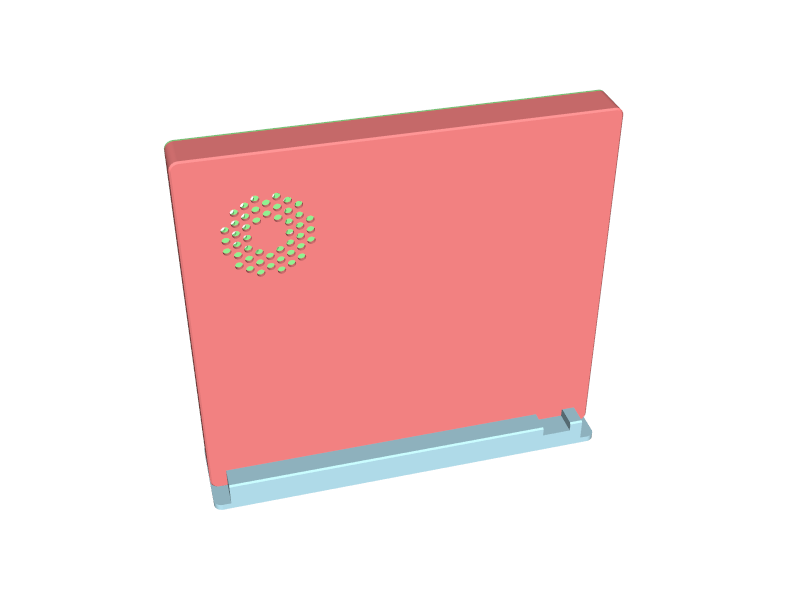
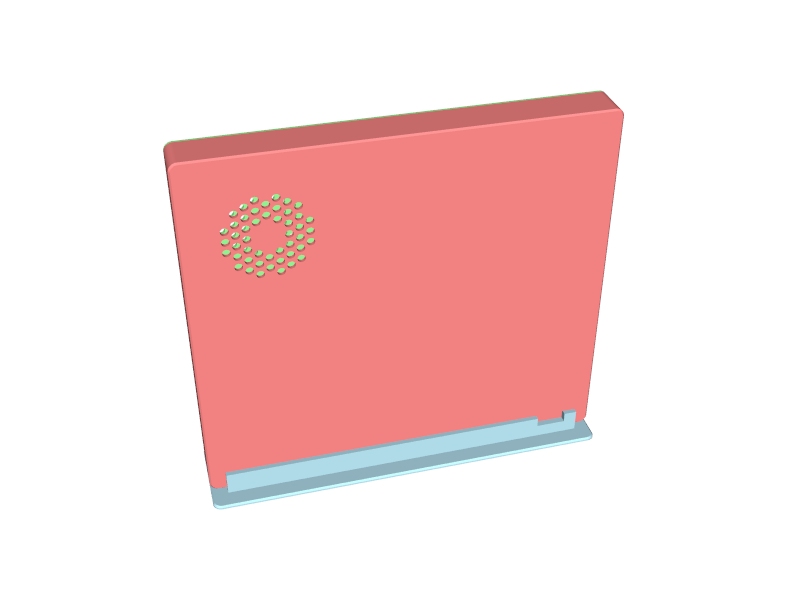
Slim the stand to a flat plate with rails
The solid 18 mm bar used three times the filament it needed and its
wings were too tall to put anything on. The stand is now a 2 mm plate
with two 4 mm rails round the slot, so books can lie on the plate
beside the case. Rail height and notches are unchanged.

diff --git a/cad/base.py b/cad/base.py
@@ -97,9 +97,10 @@ clip_wall = 2.0          # beside the slot
 clip_bar_t = 1.5         # the rectangular bar on the other side of the slot
 clip_ext = (2.0, 1.5)    # two versions: straight depth along the board before the half round (total depth clip_ext + clip_bend_r)
 stand_clear = 0.3        # stand: slot to the case thickness, per side
-stand_floor_t = 4.0
-stand_wall_h = 14.0      # slot depth: under the SSD screw heads, which start 15.8 above the audio-end face when the case stands on that end
-stand_w = 56.0           # footprint across the case: tips at about 12 degrees with the centre of mass 115 mm up
+stand_floor_t = 2.0      # a flat plate, so books and the like can lie on it beside the case
+stand_rail_w = 4.0       # the slot walls are two rails on the plate, this thick
+stand_wall_h = 14.0      # rail height: under the SSD screw heads, which start 15.8 above the audio-end face when the case stands on that end
+stand_w = 56.0           # plate width across the case: tips at about 12 degrees with the centre of mass 115 mm up
 stand_end_notch = 10.0   # the walls stop this short of both ends: the lid's corner screw heads (5.1 from the end faces, 6.2 recess) stick out
 stand_led_h = 8.0        # wall height over the LED slit (10.4 from the audio-end face) so the LEDs show when the case stands on that end
 led_y = (19.0, 29.0)     # POWER and CHARGER LEDs, side-firing on the audio-end board edge beside H5 (board-in-chassis photo, about 1 mm)
@@ -387,17 +388,20 @@ for ext in clip_ext:
 # turns the lid to the other side of the slot, so both walls get the same notches. Stand frame: X along the case from the port-edge
 # face, Y across the slot, Z up. Prints as is. ---
 def build_stand():
-    ln, th, h = y1 - y0 + 2 * wall_t, case_h + lid_t + 2 * stand_clear, stand_floor_t + stand_wall_h
-    body = rect(0, ln, -stand_w / 2, stand_w / 2, 0, h)
-    body = body.fillet(corner_r, body.edges().filter_by(Axis.Z))
-    body = body.chamfer(edge_chamfer, None, body.edges().group_by(Axis.Z)[-1])
-    body = body - rect(-1, ln + 1, -th / 2, th / 2, stand_floor_t, h + 1)
-    body = body.chamfer(edge_chamfer, None, [e for e in body.edges().filter_by(Axis.X)                 # lead-in on the slot
-                                             if abs(e.center().Z - h) < 1e-3 and abs(abs(e.center().Y) - th / 2) < 1e-3])
+    ln, th, zt = y1 - y0 + 2 * wall_t, case_h + lid_t + 2 * stand_clear, stand_floor_t + stand_wall_h
+    plate = rect(0, ln, -stand_w / 2, stand_w / 2, 0, stand_floor_t)
+    plate = plate.fillet(corner_r, plate.edges().filter_by(Axis.Z))
+    plate = plate.chamfer(edge_chamfer, None, plate.edges().group_by(Axis.Z)[-1])
     xl = (led_y[0] - led_slit_margin - (y0 - wall_t) - 2, led_y[1] + led_slit_margin - (y0 - wall_t) + 2)   # LED slit, 2 mm past its ends
-    for xa, xb, za in [(-1, stand_end_notch, stand_floor_t), (ln - stand_end_notch, ln + 1, stand_floor_t), (xl[0], xl[1], stand_floor_t + stand_led_h)]:
-        body = body - rect(xa, xb, -stand_w, stand_w, za, h + 1)
-    return body
+    notches = [rect(xa, xb, -stand_w, stand_w, za, zt + 1) for xa, xb, za in
+               [(-1, stand_end_notch, stand_floor_t - 1), (ln - stand_end_notch, ln + 1, stand_floor_t - 1), (xl[0], xl[1], stand_floor_t + stand_led_h)]]
+    rails = []
+    for s in (-1, 1):
+        r = rect(0, ln, min(s * th / 2, s * (th / 2 + stand_rail_w)), max(s * th / 2, s * (th / 2 + stand_rail_w)), stand_floor_t - 0.01, zt)
+        r = r.chamfer(edge_chamfer, None, [e for e in r.edges().filter_by(Axis.X)                     # lead-in on the slot side
+                                           if abs(e.center().Z - zt) < 1e-3 and abs(abs(e.center().Y) - th / 2) < 1e-3])
+        rails.append(r.cut(*notches))
+    return plate.fuse(*rails)
 stand = build_stand()
 show(stand, "stand")
 result = base

diff --git a/DESIGN.md b/DESIGN.md
@@ -106,12 +106,13 @@ Updated as measurements and decisions come in.
   Total depth 3.5 (3.0) mm, the side walls flush with the half round's apex. Prints flat on the inner face (the half round is a dome on top,
   no overhang). ODD PCB thickness assumed 1.0 like the main board.
 - Stand (`cad/out/stand.stl`): the case stands vertically on either end wall with the ports to the back, in a slot along its length.
-  A 243.5 x 56 x 18 mm bar (the case length, corners on the 5.1 fillet, 1 mm chamfers) with a 26.3 mm slot (case 25.7 plus 0.3 a side),
-  4 mm floor, 14 mm walls with a 1 mm lead-in. Flipping the case from one end to the other turns the lid to the other side of the slot, so
-  both walls are notched the same: the walls stop 10 mm short of both ends because the lid's corner screw heads (5.1 from the end faces)
-  stick out of the lid, and drop to 8 mm over the LED slit (10.4 up from the audio-end face, Y 17 to 31 plus 2) so the LEDs show when the
-  case stands on the audio end. The 14 mm walls stay under the SSD screw heads (15.8 above the audio-end face). The slot is open at both
-  ends: nothing in front of the ports or the far wall. Prints slot up.
+  A flat 243.5 x 56 x 2 mm plate (the case length, corners on the 5.1 fillet, 1 mm chamfer on the top edge) so books and the like can lie
+  on it beside the case, with two 4 mm rails 14 mm tall forming a 26.3 mm slot (case 25.7 plus 0.3 a side), 1 mm lead-in on the slot side.
+  Flipping the case from one end to the other turns the lid to the other side of the slot, so both rails are notched the same: they stop
+  10 mm short of both ends because the lid's corner screw heads (5.1 from the end faces) stick out of the lid, and drop to 8 mm over the
+  LED slit (10.4 up from the audio-end face, Y 17 to 31 plus 2) so the LEDs show when the case stands on the audio end. The 14 mm rails
+  stay under the SSD screw heads (15.8 above the audio-end face). The slot is open at both ends: nothing in front of the ports or the far
+  wall. About 51 cm3 (a solid 18 mm bar was 144). Prints slot up.
 - WiFi nub pin 2.0 mm for slack.
 - WiFi antennas: the original lid flaps are the antennas (MAIN also carries Bluetooth); they go on the floor beside the SSD board. The cable
   slack coils round two C-shaped ends of a pill on the floor beside the WiFi card, in the free strip between the fan and the ODD board leg:
@@ -274,8 +275,8 @@ Fill in after the colon on each line.
   ODD spacer disc sits:
 - Board-top airflow with only 3 intake slots left: does the board top (memory, VRM) run warm standing on the audio end:
 - ODD cable clips printed (2 and 1.5 mm straight, 1.2 slot): which depth, does the slot take the board plus the ribbon, does it stay put:
-- Stand v1 printed (26.3 slot, 14 mm walls, notches at the ends and over the LED slit): does the case slide in, is it stable on either end,
-  do the screw heads clear, are the LEDs visible:
+- Stand v1 printed (2 mm plate, 4 mm rails 14 tall, 26.3 slot, notches at the ends and over the LED slit): does the case slide in, is it
+  stable on either end, does the plate stay flat, do the screw heads clear, are the LEDs visible:
 - Lid grille over the fan: enough on a shelf, or does the board top run warm (then offset it toward the board)?:
 
 Answered:
@@ -308,6 +309,7 @@ Answered:
 
 ## Log
 
+- 2026-11-04: stand slimmed to a 2 mm plate with 4 mm rails (books can lie on the plate; a third of the filament)
 - 2026-11-03: stand for standing the case on either end wall, ports to the back (`cad/out/stand.stl`): slotted bar, walls notched at the ends
   for the lid screw heads and over the LED slit
 - 2026-11-03: base v8: the board collides with the 10 mm port-edge corner posts. Posts flattened at 0.5 from the board's X extent, audio-end
